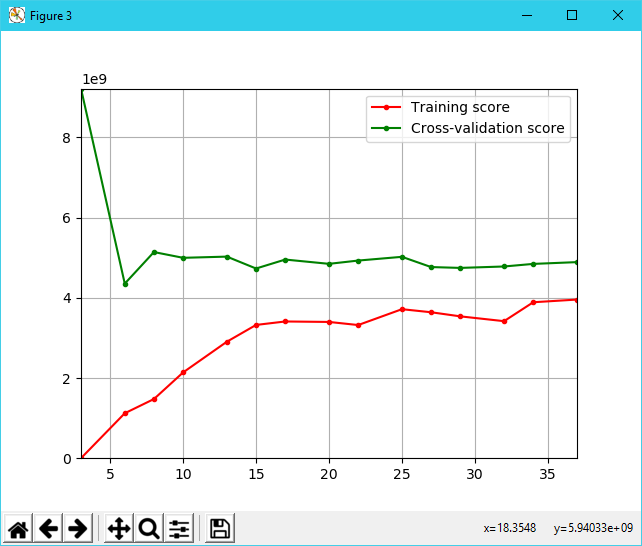
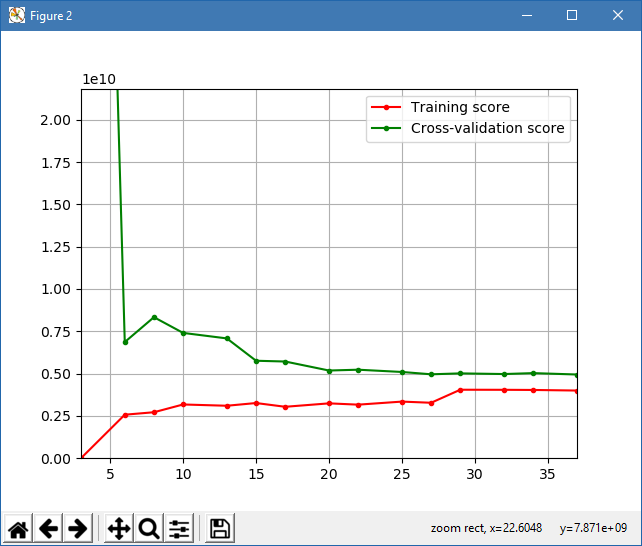
Update example one to use one figure with multiple graphs

diff --git a/ex1/app.py b/ex1/app.py
@@ -109,19 +109,17 @@ def model_dataset_1():
     scaler = StandardScaler()
 
     # Find a well fitted model for the first data set
-    X, y = extractData("ex1/ex1data1.csv")
+    X, y = extract_data("ex1/ex1data1.csv")
 
     X_scaled = scaler.fit_transform(X)
 
+    fig, (ax1, ax2) = plt.subplots(1,2)
 
     # Here we divide the data into training and testing sets
     #   test_size : percentage we want allocated towards the test set (20%)
     X_train, X_test, y_train, y_test = train_test_split(X_scaled, y, test_size=0.2, random_state=5)
 
-    clf = LinearRegression(normalize=True)
-
-    parameters = {'fit_intercept':[True,False], 'normalize':[True,False], 'copy_X':[True, False]}
-    grid = GridSearchCV(clf, parameters, cv=None)
+    clf = LinearRegression(copy_X=True, fit_intercept=True, normalize=False)
 
     clf.fit(X_train, y_train)
 
@@ -129,8 +127,8 @@ def model_dataset_1():
 
     # Plot learning curve of the model
     t_sizes, t_scores, cv_scores = learning_curve(
-        LinearRegression(),
-        X,
+        LinearRegression(copy_X=True, fit_intercept=True, normalize=False),
+        X_scaled,
         y,
         cv=5,
         train_sizes=np.linspace(0.1,1.0,15),
@@ -138,12 +136,11 @@ def model_dataset_1():
         scoring="neg_mean_squared_error"
     )
 
-    generate_validation_curve(t_scores, cv_scores, t_sizes)
+    generate_validation_curve(t_scores, cv_scores, t_sizes, graph=ax1)
 
     # Plot data and model prediction
-    plt.figure()
-    plt.scatter(X,y)
-    plt.plot(X, clf.predict(X_scaled))
+    ax2.scatter(X,y)
+    ax2.plot(X, clf.predict(X_scaled))
 
     plt.draw()
 
@@ -151,7 +148,7 @@ def model_dataset_2():
     scaler = StandardScaler()
 
     # Find a well fitted model for the first data set
-    X, y = extractData("ex1/ex1data2.csv")
+    X, y = extract_data("ex1/ex1data2.csv")
 
     X_scaled = scaler.fit_transform(X)
 
@@ -161,7 +158,7 @@ def model_dataset_2():
 
     # Here we are creating our LinearRegression object which we will use to fit our linear model
     #   The LinearRegression object will fit itself to our training data
-    clf = LinearRegression(normalize=True)
+    clf = LinearRegression(copy_X=True, fit_intercept=True, normalize=True)
 
     # Train our linear model using LinearRegression
     clf.fit(X_train, y_train)
@@ -170,8 +167,8 @@ def model_dataset_2():
 
     # Generate information needed to graph a learning curve
     t_sizes, t_scores, cv_scores = learning_curve(
-        LinearRegression(),
-        X,
+        LinearRegression(copy_X=True, fit_intercept=True, normalize=True),
+        X_scaled,
         y,
         train_sizes=np.linspace(0.1,1.0,15),
         cv=5,
@@ -184,37 +181,22 @@ def model_dataset_2():
 
     generate_validation_curve(t_scores, cv_scores, t_sizes.reshape(len(t_sizes),1))
 
-    plt.draw()
 
-#model_dataset_1()
-#model_dataset_2()
-#plt.show()
+def analyze_dataset(X, y):
+    best_params, best_poly, best_score = analyze_lin_reg(X, y)
 
-
-# Find a well fitted model for the first data set
-X, y = extractData("ex1/ex1data2.csv")
-
-# Here we divide the data into training and testing sets
-#   test_size : percentage we want allocated towards the test set (20%)
-X_train, X_test, y_train, y_test = train_test_split(X, y, test_size=0.1, random_state=0)
+    print("Best parameters : ", best_params)
+    print("Best Polynomial Degree: ", best_poly)
+    print("Best Score: ", best_score)
 
 
+#X, y = extract_data("ex1/ex1data1.csv")
+#analyze_dataset(X, y)
 
-parameters = {'fit_intercept':[True,False], 'normalize':[True,False], 'copy_X':[True, False]}
+#X, y = extract_data("ex1/ex1data2.csv")
+#analyze_dataset(X,y)
 
-grid = GridSearchCV(LinearRegression(), parameters)
+model_dataset_1()
+model_dataset_2()
+plt.show()
 
-grid.fit(X_train, y_train)
-
-print("Best parameters : ")
-print(grid.best_params_)
-print("Grid scores : ")
-means = grid.cv_results_['mean_test_score']
-stds = grid.cv_results_['std_test_score']
-for mean, std, params in zip(means, stds, grid.cv_results_['params']):
-    print("%0.3f (+/-%0.03f) for %r" % (mean, std * 2, params))
-
-
-
-print("Best Score: ", grid.best_score_)
-print(grid.score(X_test, y_test))

diff --git a/ML/common.py b/ML/common.py
@@ -3,10 +3,10 @@ import matplotlib.pyplot as plt
 from sklearn.model_selection import train_test_split
 from sklearn.model_selection import GridSearchCV
 from sklearn.preprocessing import PolynomialFeatures
-from sklearn.linear_model import LogisticRegression
+from sklearn.linear_model import LogisticRegression, LinearRegression
 
 # extract X and y data from a csv file
-def extractData(filename):
+def extract_data(filename):
     f = open(filename)
 
     data = np.loadtxt(fname=f, delimiter=',')
@@ -64,26 +64,21 @@ def optimize_parameters(est, X, y, parameters, cv=None):
 
     return grid.best_params_, grid.best_score_, grid.score(X_test, y_test)
 
-
-# Find the best parameters to use with logistic regression
-def analyze_log_reg(X, y, poly=None):
+def analyze_estimator(clf, X, y, parameters, poly=None):
     best_score = 0.0
     best_poly = 1
     best_params = None
+    best_scaled = False
 
-    parameters = {
-        'C':[0.1,1,3,10,30,100], 
-        'solver':['newton-cg','lbfgs','liblinear','sag','saga'], 
-        'fit_intercept':[True, False], 
-        'penalty':['l1', 'l2','elasticnet','none']
-        }
+    if poly is None:
+        poly = 1
 
     for i in range(1,poly+1):
         if i == 1:
             X_poly = X
         else:
             X_poly = map_feature(X, i)
-        b_params, grid_score, test_score = optimize_parameters(LogisticRegression(max_iter=1000), X_poly, y, parameters)    
+        b_params, grid_score, test_score = optimize_parameters(clf, X_poly, y, parameters)    
 
         if grid_score > best_score:
             best_score = grid_score
@@ -91,3 +86,23 @@ def analyze_log_reg(X, y, poly=None):
             best_params = b_params
 
     return best_params, best_poly, best_score
+
+def analyze_lin_reg(X, y):
+    parameters = {
+        'fit_intercept':[True, False], 
+        'normalize':[True, False],
+        'copy_X':[True, False]
+        }
+
+    return analyze_estimator(LinearRegression(), X, y, parameters)
+
+# Find the best parameters to use with logistic regression
+def analyze_log_reg(X, y):
+    parameters = {
+        'C':[0.1,1,3,10,30,100], 
+        'solver':['newton-cg','lbfgs','liblinear','sag','saga'], 
+        'fit_intercept':[True, False], 
+        'penalty':['l1', 'l2','elasticnet','none']
+        }
+
+    return analyze_estimator(LogisticRegression(max_iter=1000), X, y, parameters)

diff --git a/ex2/app.py b/ex2/app.py
@@ -1,7 +1,7 @@
 import sys
 sys.path.append('..\MLNumpy')
 
-from ML.common import extractData, optimize_parameters, analyze_log_reg, map_feature
+from ML.common import extract_data, optimize_parameters, analyze_log_reg, map_feature
 from ML.plotting import generate_validation_curve
 import numpy as np
 import matplotlib.pyplot as plt
@@ -80,7 +80,7 @@ def generate_decision_contour_clf(u, v, X, clf, graph=None, name=None, degree=6)
 
 def run_example_1(params):
     # Extract data an load into X,y variables
-    X, y = extractData("ex2/ex2data1.csv")
+    X, y = extract_data("ex2/ex2data1.csv")
 
     # Create positive and negative value index arrays
     pos = np.argwhere(y == 1)
@@ -134,7 +134,7 @@ def run_example_1(params):
 
 def run_example_2(params):
     # Extract data an load into X,y variables
-    X, y = extractData("ex2/ex2data2.csv")
+    X, y = extract_data("ex2/ex2data2.csv")
 
     # Create positive and negative value index arrays
     pos = np.argwhere(y == 1)
@@ -189,7 +189,7 @@ def run_example_2(params):
 
 # Find a well fitted model for the first data set
 def analyze_dataset_1():
-    X, y = extractData("ex2/ex2data1.csv")
+    X, y = extract_data("ex2/ex2data1.csv")
 
     best_params, best_poly, best_score = analyze_log_reg(X, y, 10)
 
@@ -200,7 +200,7 @@ def analyze_dataset_1():
 
 # Find a well fitted model for the second data set
 def analyze_dataset_2():
-    X, y = extractData("ex2/ex2data2.csv")
+    X, y = extract_data("ex2/ex2data2.csv")
 
     best_params, best_poly, best_score = analyze_log_reg(X, y, 10)
 

diff --git a/ML/plotting.py b/ML/plotting.py
@@ -8,6 +8,9 @@ def generate_validation_curve(train_scores, validation_scores, train_sizes, grap
     train_scores_mean = -np.mean(train_scores, axis=1)
     validation_scores_mean = -np.mean(validation_scores, axis=1)
 
+    print(train_scores_mean)
+    print(validation_scores_mean)
+
     if graph is None:
         if name is not None:
             plt.figure(num=name)
